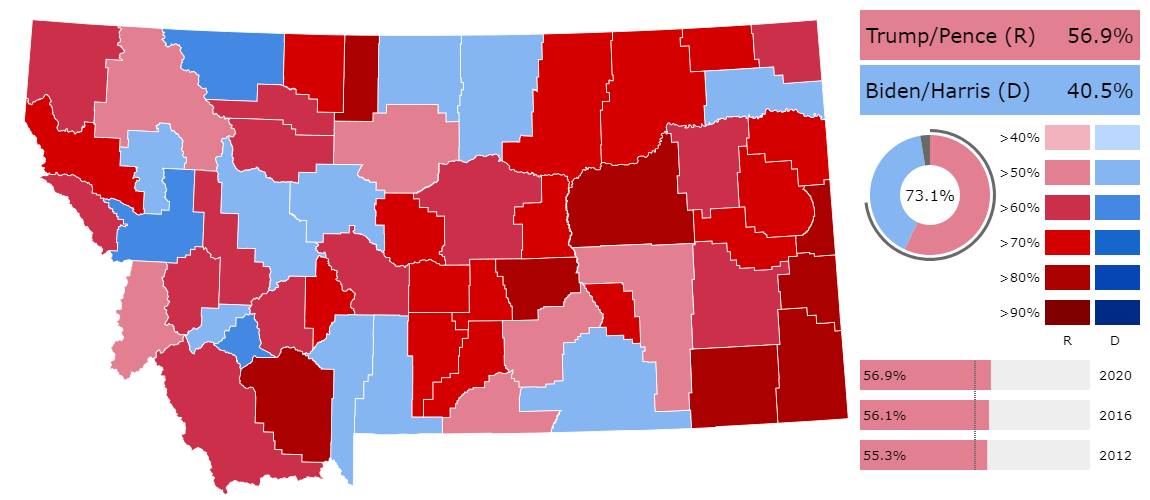
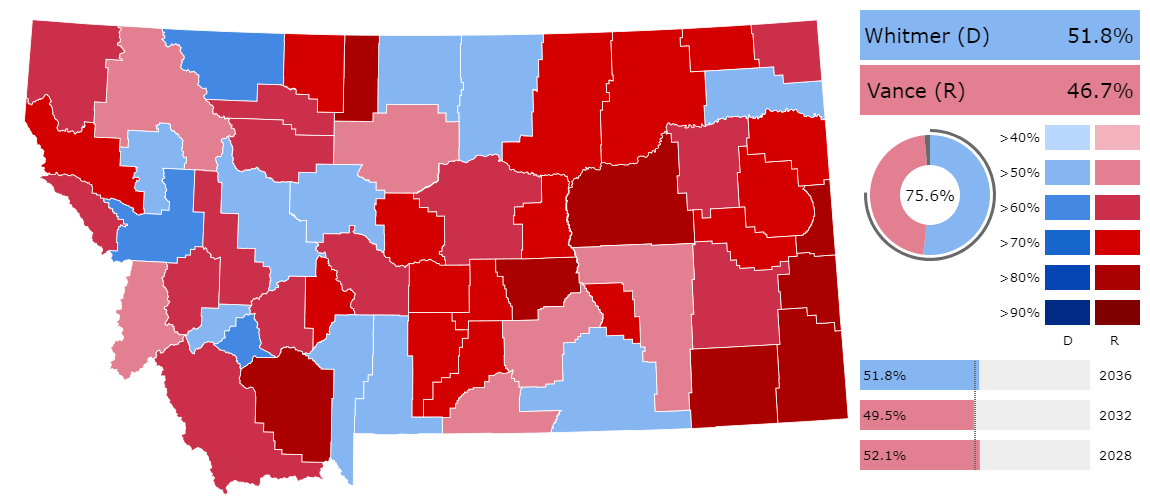
Updated candidates, changed up results slightly.

diff --git a/main.py b/main.py
@@ -785,7 +785,7 @@ def draw_legend(candidates: list[str],
                              y_margin=5,
                              colors=[palettes[1][1], palettes[0][1]],
                              candidate_text=candidates,
-                             candidate_text_positions=[[100, 465], [98, 410]],
+                             candidate_text_positions=[[77, 465], [66, 410]],
                              candidate_text_size=20,
                              result_text=[f"{i}%" for i in results],
                              result_text_positions=[[250, 410], [250, 465]],
@@ -841,10 +841,11 @@ def main() -> None:
     #                        COLORS_I_DOWN, COLORS_R_DOWN,
     #                        "montana-senate.svg",
     #                        "130 130 440 240")
-    draw_legend(["Trump/Pence (R)", "Biden/Harris (D)"],
-                [56.9, 40.5], [56.1, 55.3], 73.1,
-                [COLORS_R_PRES, COLORS_D_PRES],
-                ["R", "D"], [COLORS_R_PRES[1]]*3, ["2020", "2016", "2012"],
+    draw_legend(["Whitmer (D)", "Vance (R)"],
+                [51.8, 46.7], [49.5, 52.1], 75.6,
+                [COLORS_D_PRES, COLORS_R_PRES],
+                ["D", "R"], [COLORS_R_PRES[1], COLORS_R_PRES[1],
+                COLORS_D_PRES[1]], ["2036", "2032", "2028"],
                 "test-new.png")
     print("Legend complete")
     combine_images("montana-presidential.png", "test-new.png",
